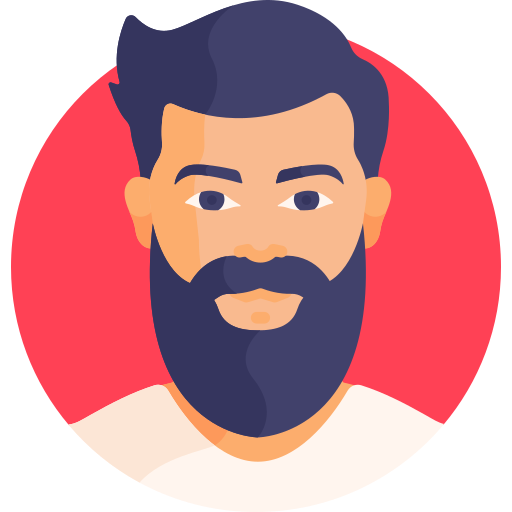
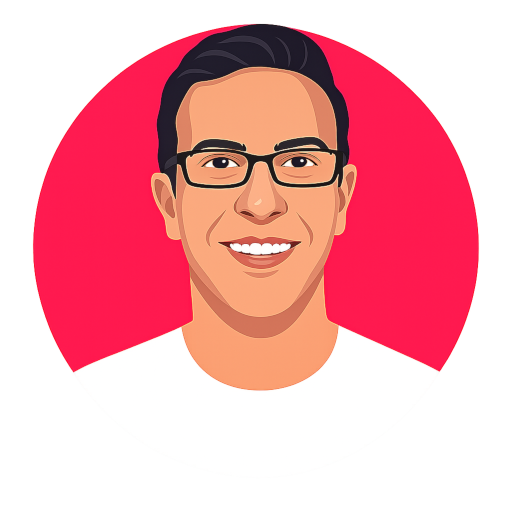
Squashed commit of the following:
commit 38ce67265b04a63f65160c1200756b7fff1667fd
Author: codecroft <[email redacted]>
Date:   Tue Jun 30 13:45:02 2026 -0700

    Update man avatar and add backup image

    Replaces `man.png` with a new avatar image and adds `man-backup.png` to preserve the previous version for fallback or reference.

commit 466513992caa27c687203d2093b7dc2ea1ecf56c
Author: codecroft <[email redacted]>
Date:   Mon Jun 29 16:13:01 2026 -0700

    Simplify hero social links

    Remove unused social media icons and links from HeroSection, keeping only Instagram and GitHub. Also fix the Instagram URL to the correct Codecroft profile.

commit 8fb181beb146cadf6052a95f65b63a8a6261c9cc
Author: codecroft <[email redacted]>
Date:   Mon Jun 29 16:12:47 2026 -0700

    Update contact information

    Replace contact details with new location (Vancouver, Canada) and email address.

commit 59ad330964cd747bdfb8e32cca64526e3e08d685
Author: codecroft <[email redacted]>
Date:   Mon Jun 29 16:06:15 2026 -0700

    Update GitHub profile link

    Point the hero section's GitHub icon to the Codecroft profile instead of the generic github.com homepage.

commit 92c21d9ea2ec174ab97bdfd75831ce4c0b916028
Author: codecroft <[email redacted]>
Date:   Mon Jun 29 16:05:22 2026 -0700

    Add LinkedIn link to hero section

    Adds a LinkedIn social icon to the hero section and wires it to the profile URL alongside the existing social links.

commit 6b8d124f495fa86bd4d6605a0299393c01bf9f58
[…]

diff --git a/pofology/src/components/partials/HeroSection.tsx b/pofology/src/components/partials/HeroSection.tsx
@@ -1,7 +1,8 @@
 import Image from 'next/image';
 import Link from 'next/link';
 import React from 'react';
-import { FiDribbble, FiFacebook, FiGithub, FiInstagram, FiTwitter } from 'react-icons/fi';
+import { FiGithub, FiInstagram } from 'react-icons/fi';
+import { FaLinkedin } from 'react-icons/fa';
 import Button from '@/components/form/Button';
 import HeroBackground from './HeroBackground';
 import Typed from 'react-typed';
@@ -14,41 +15,31 @@ const HeroSection = () => {
         <div className="overflow-hidden rounded-full">
           <Image src="/images/avatar/man.png" width={180} height={180} alt="avatar" />
         </div>
-        <h1 className="mt-4 text-3xl font-bold ">Mostafizur Rahman</h1>
+        <h1 className="mt-4 text-3xl font-bold ">Nima Rikhtegar</h1>
         <div className="mt-2 flex gap-1">
           {' '}
           I'm a{' '}
           <Typed
-            strings={['Fullstack Developer', 'UI/UX Designer', 'Mobile App Developer']}
+            strings={['Game Developer', 'Backend Developer', 'Mobile Developer']}
             typeSpeed={60}
             backSpeed={30}
             loop
           />
         </div>
         <div className="mt-4  flex gap-5">
-          <Link href="https://www.instragram.com">
+          <Link href="https://www.instagram.com/codecroft/">
             <a className="text-gray-700 transition-colors duration-150 hover:text-primary-500">
               <FiInstagram size={25} />
             </a>
           </Link>
-          <Link href="https://www.twitter.com">
-            <a className="text-gray-700 transition-colors duration-150 hover:text-primary-500">
-              <FiTwitter size={25} />
-            </a>
-          </Link>
-          <Link href="https://www.facebook.com">
-            <a className="text-gray-700 transition-colors duration-150 hover:text-primary-500">
-              <FiFacebook size={25} />
-            </a>
-          </Link>
-          <Link href="https://www.dribble.com">
-            <a className="text-gray-700 transition-colors duration-150 hover:text-primary-500">
-              <FiDribbble size={25} />
-            </a>
-          </Link>
-          <Link href="https://www.github.com">
+<Link href="https://github.com/codecroft">
             <a className="text-gray-700 transition-colors duration-150 hover:text-primary-500">
               <FiGithub size={25} />
+            </a>
+          </Link>
+          <Link href="https://www.linkedin.com/in/rikhtegar/">
+            <a className="text-gray-700 transition-colors duration-150 hover:text-primary-500">
+              <FaLinkedin size={25} />
             </a>
           </Link>
         </div>

diff --git a/pofology/src/pages/contact.tsx b/pofology/src/pages/contact.tsx
@@ -26,11 +26,8 @@ const Contact = (props: Props) => {
             <h6 className="text-2xl font-bold">Contact with me</h6>
             <p className="mt-2">I would love to hear from you. 👋</p>
             <div className="mt-10 text-gray-400">
-              <p>3rd Floor, Abu Sayeed Market, Rampura</p>
-              <p>Dhaka, Bangladesh</p>
-
-              <p className="mt-4">[phone redacted]</p>
-              <p>[email redacted]</p>
+              <p>Vancouver, Canada</p>
+              <p className="mt-4">[email redacted]</p>
             </div>
           </div>
           <div className="col-span-2">

diff --git a/pofology/src/components/partials/AboutSection.tsx b/pofology/src/components/partials/AboutSection.tsx
@@ -13,7 +13,7 @@ const AboutSection = () => {
         {/* Bio */}
         <div className="">
           <p className="text-justify">
-            Hi, I am Md Mostafizur Rahman, I am a fullstack developer. I work from Dhaka, Bangladesh. I have rich
+            Hi, I am Nima Rikhtegar, I am a fullstack developer. I work from Dhaka, Bangladesh. I have rich
             experience in building, designing & customizing website, web apps, mobile apps etc.
           </p>
           <Button className="mt-5">Download CV</Button>

diff --git a/pofology/src/components/partials/Footer.tsx b/pofology/src/components/partials/Footer.tsx
@@ -3,7 +3,7 @@ import React from 'react';
 const Footer = () => {
   return (
     <footer className="container mt-auto border-t border-gray-200 py-6 text-center text-gray-500 dark:border-gray-600">
-      Copyright &#169; {new Date().getFullYear()}. Md Mostafizur Rahman
+      Copyright &#169; {new Date().getFullYear()}. Nima Rikhtegar
     </footer>
   );
 };